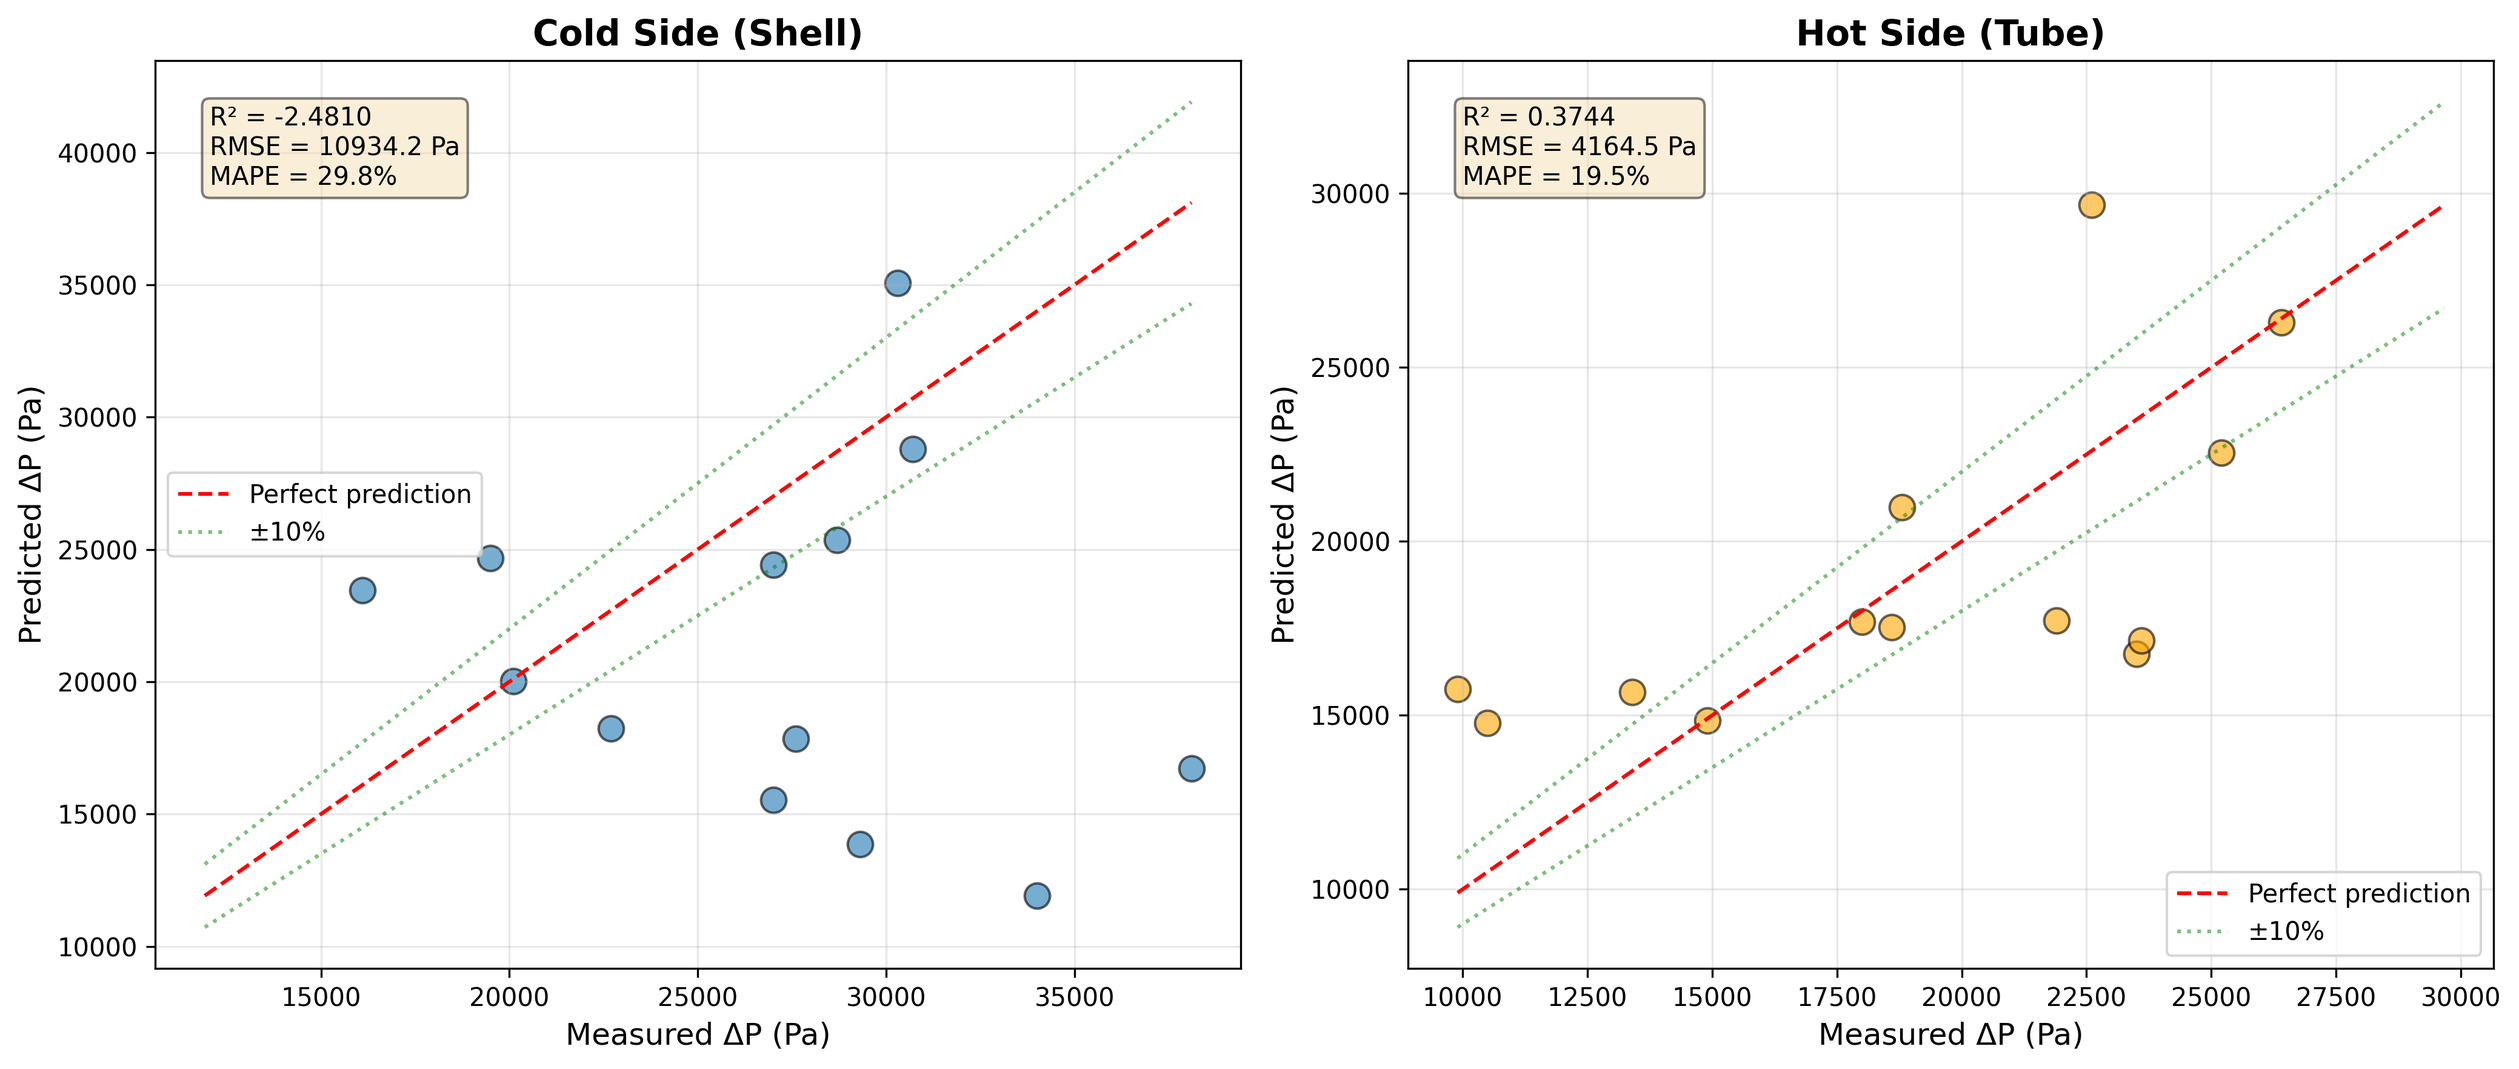
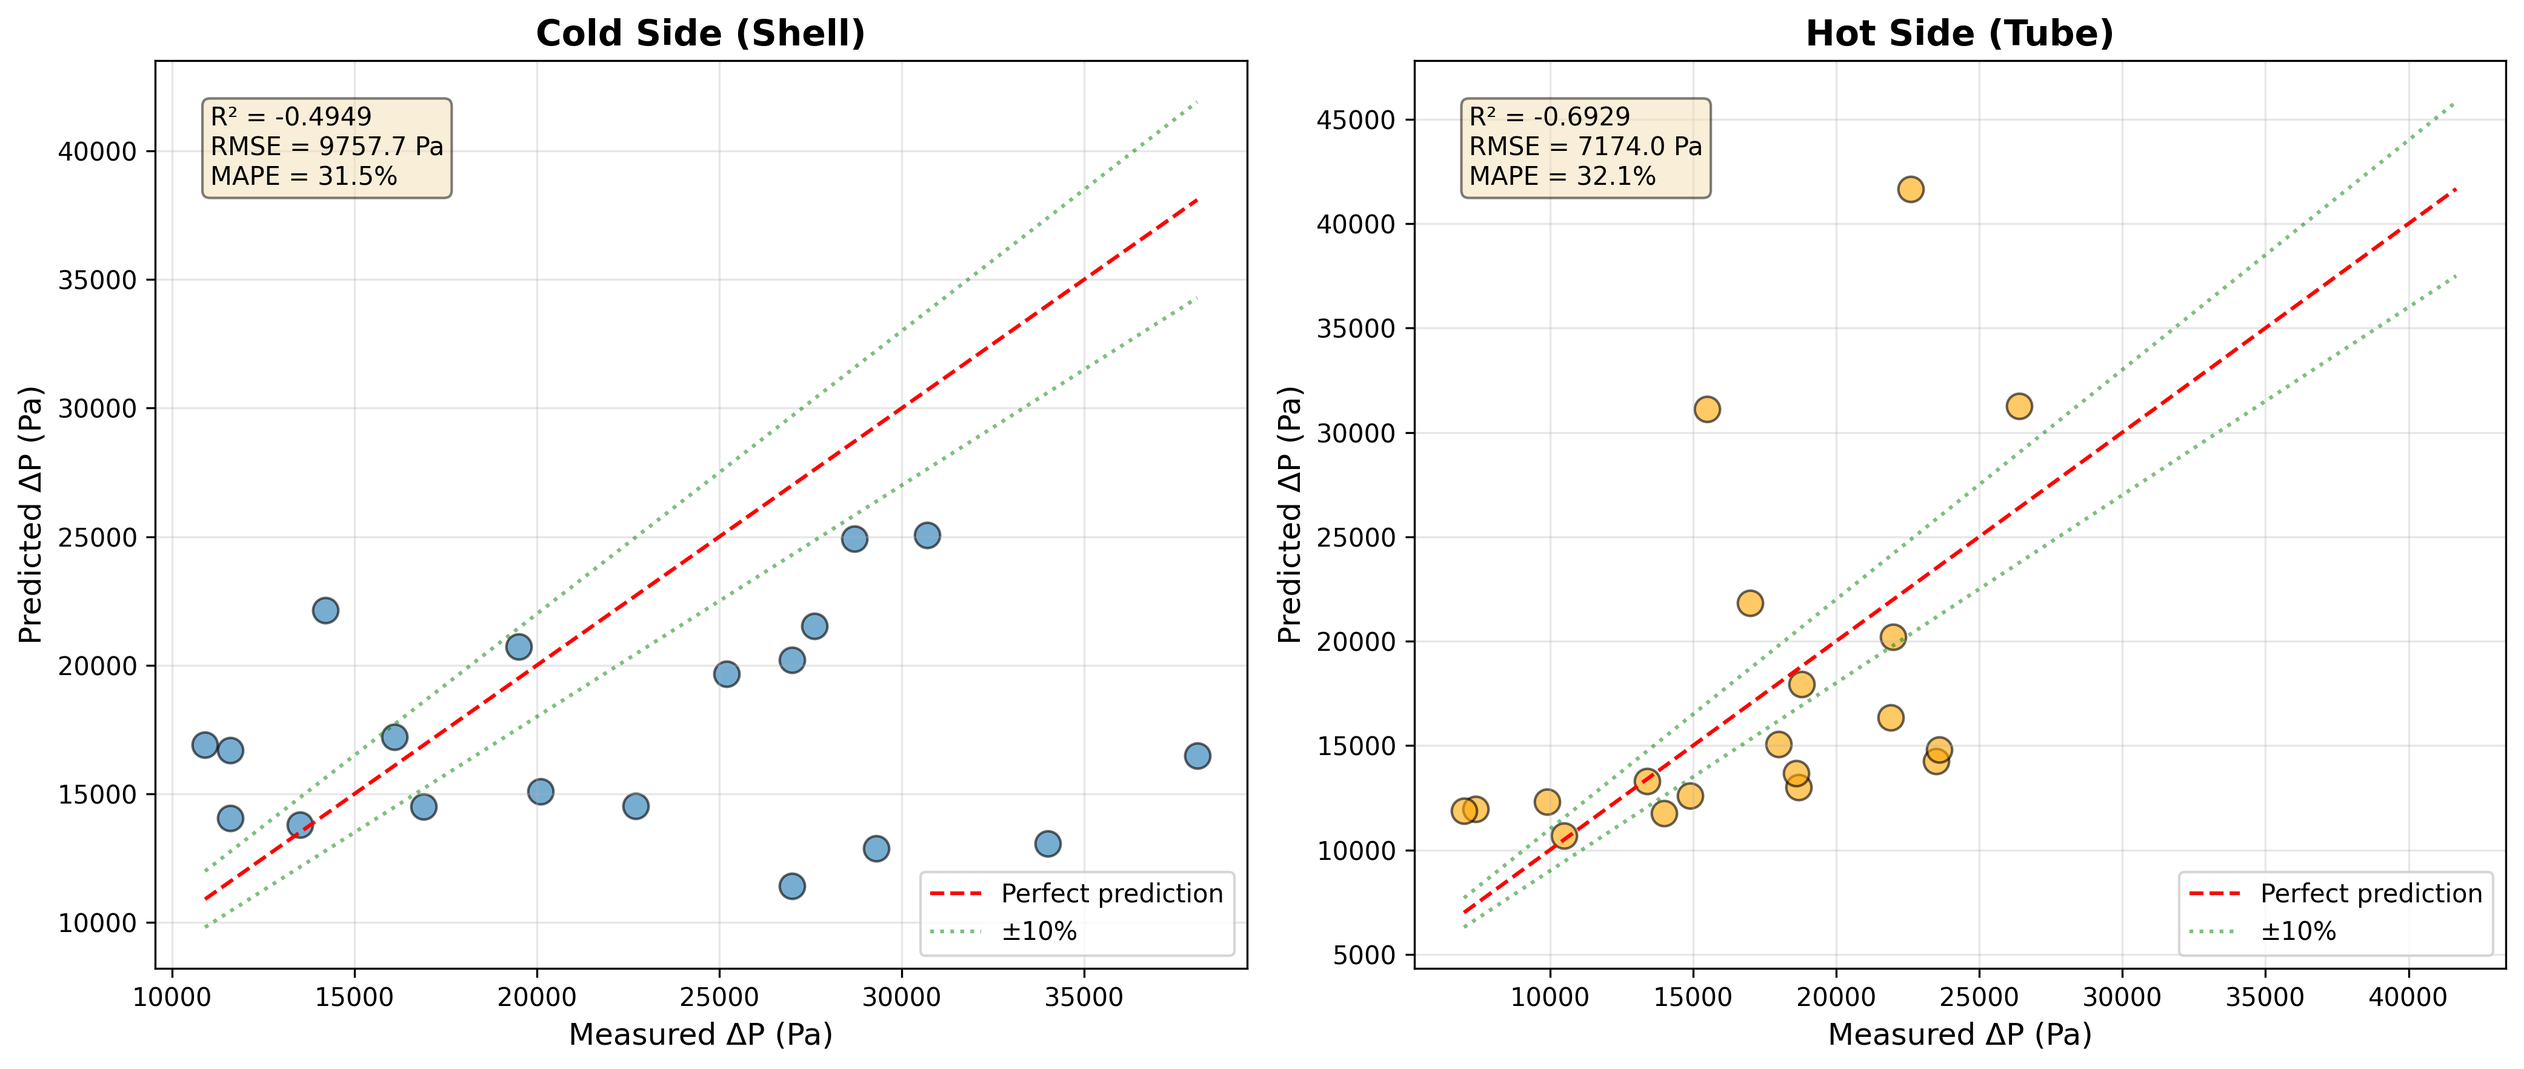
Set HX to pure physical corrections

diff --git a/optimise_hx.py b/optimise_hx.py
@@ -38,7 +38,7 @@ class HeatExchangerOptimizer:
         
         relative_roughness = hx.tube_roughness / hx.tube_inner_diameter
         friction_factor = hx.friction_factor(reynolds_hot, relative_roughness)
-        friction_factor_used = friction_factor / 10  # As in your code
+        friction_factor_used = friction_factor / hx.friction_divisor
         
         effective_length = hx.tube_length * hx.tube_passes
         pipe_friction = (friction_factor_used * (effective_length / hx.tube_inner_diameter) 
@@ -65,12 +65,16 @@ class HeatExchangerOptimizer:
         
         bundle_dp = 4 * a * N * hx.fluid_density * velocity_cold**2 * hx.shell_passes
         
+        # Turning losses at baffles
+        turning_dp = (hx.number_of_baffles * hx.K_turn * 0.5 * 
+                      hx.fluid_density * velocity_cold**2 * hx.shell_passes)
+        
         nozzle_velocity_cold = m_cold / (hx.fluid_density * hx.nozzle_area_shell_side)
         nozzle_cold = 2 * hx.nozzle_correction_factor * 0.5 * hx.fluid_density * nozzle_velocity_cold**2
         
         hose_cold = 2 * hx.hose_pressure_drop(m_cold, hx.K_hose_cold)
         
-        total_cold = bundle_dp + nozzle_cold + hose_cold
+        total_cold = bundle_dp + turning_dp + nozzle_cold + hose_cold
         
         if verbose:
             print(f"\n{'='*60}")
@@ -83,12 +87,14 @@ class HeatExchangerOptimizer:
             print(f"  Velocity:           {velocity_hot:.3f} m/s")
             print(f"  Reynolds:           {reynolds_hot:.0f}")
             print(f"  Friction factor:    {friction_factor:.6f} (using {friction_factor_used:.6f})")
+            print(f"  Friction divisor:   {hx.friction_divisor:.2f}")
             print(f"  Kc, Ke:             {Kc:.4f}, {Ke:.4f}")
+            print(f"  Entrance/exit mult: {hx.entrance_exit_multiplier:.2f}")
             print(f"\n  Pipe friction:      {pipe_friction:8.1f} Pa  ({100*pipe_friction/total_hot:5.1f}%)")
             print(f"  Entrance/exit:      {entrance_exit:8.1f} Pa  ({100*entrance_exit/total_hot:5.1f}%)")
             print(f"  Nozzles:            {nozzle_hot:8.1f} Pa  ({100*nozzle_hot/total_hot:5.1f}%)")
             print(f"  Hoses:              {hose_hot:8.1f} Pa  ({100*hose_hot/total_hot:5.1f}%)")
-            print(f"  Misc:               {misc_hot:8.1f} Pa  ({100*misc_hot/total_hot:5.1f}%)")
+            print(f"  Misc (K={hx.K_tube_misc:.2f}):      {misc_hot:8.1f} Pa  ({100*misc_hot/total_hot:5.1f}%)")
             print(f"  ---")
             print(f"  TOTAL PREDICTED:    {total_hot:8.1f} Pa")
             print(f"  MEASURED:           {dp_hot_meas:8.1f} Pa")
@@ -98,8 +104,11 @@ class HeatExchangerOptimizer:
             print(f"  Velocity:           {velocity_cold:.3f} m/s")
             print(f"  Reynolds:           {reynolds_cold:.0f}")
             print(f"  Friction coeff (a): {a:.4f}")
+            print(f"  Shell friction mult:{hx.shell_friction_a / (0.34 if hx.is_square_layout else 0.2):.2f}")
             print(f"  Crossflow corr:     {hx.crossflow_correction_factor:.2f}")
+            print(f"  K_turn:             {hx.K_turn:.2f}")
             print(f"\n  Bundle crossflow:   {bundle_dp:8.1f} Pa  ({100*bundle_dp/total_cold:5.1f}%)")
+            print(f"  Turning losses:     {turning_dp:8.1f} Pa  ({100*turning_dp/total_cold:5.1f}%)")
             print(f"  Nozzles:            {nozzle_cold:8.1f} Pa  ({100*nozzle_cold/total_cold:5.1f}%)")
             print(f"  Hoses:              {hose_cold:8.1f} Pa  ({100*hose_cold/total_cold:5.1f}%)")
             print(f"  ---")
@@ -122,6 +131,7 @@ class HeatExchangerOptimizer:
             },
             'cold': {
                 'bundle': bundle_dp,
+                'turning': turning_dp,
                 'nozzle': nozzle_cold,
                 'hose': hose_cold,
                 'total_predicted': total_cold,
@@ -154,7 +164,9 @@ class HeatExchangerOptimizer:
         # Apply parameters to all heat exchangers
         for hx in self.hxs:
             for param_name, param_value in zip(param_names, params):
-                if param_name == 'crossflow_correction_factor':
+                if param_name == 'K_tube_misc':
+                    hx.K_tube_misc = param_value
+                elif param_name == 'crossflow_correction_factor':
                     hx.crossflow_correction_factor = param_value
                 elif param_name == 'shell_friction_multiplier':
                     # Multiply the base value
@@ -162,12 +174,12 @@ class HeatExchangerOptimizer:
                     hx.shell_friction_a = base_a * param_value
                 elif param_name == 'nozzle_correction_factor':
                     hx.nozzle_correction_factor = param_value
-                elif param_name == 'friction_factor_divisor':
-                    hx._friction_factor_divisor = param_value
+                elif param_name == 'friction_divisor':
+                    hx.friction_divisor = param_value
                 elif param_name == 'entrance_exit_multiplier':
-                    hx._entrance_exit_multiplier = param_value
-                elif param_name == 'tube_misc_K':
-                    hx.K_tube_misc = param_value
+                    hx.entrance_exit_multiplier = param_value
+                elif param_name == 'K_turn':
+                    hx.K_turn = param_value
         
         # Calculate total error
         total_error = 0
@@ -175,9 +187,9 @@ class HeatExchangerOptimizer:
             m_cold, m_hot = self.mass_flows[i]
             dp_cold_meas, dp_hot_meas = self.pressure_changes[i]
             
-            # Get predictions (need to apply friction_factor_divisor manually)
+            # Get predictions
             dp_cold_pred = hx.cold_side_pressure_drop(m_cold)
-            dp_hot_pred = self._get_hot_side_dp_with_custom_friction(hx, m_hot)
+            dp_hot_pred = hx.hot_side_pressure_drop(m_hot)
             
             # Relative errors
             error_cold = ((dp_cold_pred - dp_cold_meas) / dp_cold_meas) ** 2
@@ -187,78 +199,25 @@ class HeatExchangerOptimizer:
         
         return total_error
     
-    def _get_hot_side_dp_with_custom_friction(self, hx, mass_flow_rate_hot):
-        """
-        Modified hot-side pressure drop calculation with custom friction divisor
-        """
-        velocity = hx.tube_side_velocity(mass_flow_rate_hot)
-        reynolds = hx.tube_side_reynolds_number(velocity)
-        relative_roughness = hx.tube_roughness / hx.tube_inner_diameter
-        
-        # Get base friction factor
-        friction_factor_base = hx.friction_factor(reynolds, relative_roughness)
-        
-        # Apply custom divisor if it exists
-        if hasattr(hx, '_friction_factor_divisor'):
-            friction_factor = friction_factor_base / hx._friction_factor_divisor
-        else:
-            friction_factor = friction_factor_base  # Default
-        
-        # Pipe friction
-        effective_length = hx.tube_length * hx.tube_passes
-        pipe_friction_loss = (
-            friction_factor
-            * (effective_length / hx.tube_inner_diameter)
-            * 0.5
-            * hx.fluid_density
-            * velocity**2
-        )
-        
-        # Entrance/exit losses
-        Kc, Ke = hx.get_entrance_exit_coefficients(reynolds)
-        
-        # Apply multiplier if it exists
-        if hasattr(hx, '_entrance_exit_multiplier'):
-            multiplier = hx._entrance_exit_multiplier
-        else:
-            multiplier = 1.0
-        
-        entrance_exit_loss = (
-            hx.tube_passes
-            * 0.5
-            * hx.fluid_density
-            * velocity**2
-            * (Kc + Ke)
-            * multiplier
-        )
-        
-        # Nozzle losses
-        nozzle_velocity = mass_flow_rate_hot / (hx.fluid_density * hx.nozzle_area_tube_side)
-        nozzle_loss = 2 * hx.nozzle_correction_factor * 0.5 * hx.fluid_density * nozzle_velocity**2
-        
-        # Misc losses
-        misc_loss = hx.K_tube_misc * 0.5 * hx.fluid_density * velocity**2
-        
-        # Hose losses
-        hose_loss = 2 * hx.hose_pressure_drop(mass_flow_rate_hot, hx.K_hose_hot)
-        
-        return pipe_friction_loss + entrance_exit_loss + nozzle_loss + misc_loss + hose_loss
-    
-    def optimize_parameters(self, param_config, method='differential_evolution'):
+    def optimize_parameters(self, param_config, method='differential_evolution', 
+                          weight_cold=1.0, weight_hot=1.0):
         """
         Optimize correction factors
         
         Args:
             param_config: Dict with parameter names as keys and (min, max, initial) as values
                 Example: {
-                    'crossflow_correction_factor': (0.5, 5.0, 2.0),
-                    'shell_friction_multiplier': (0.5, 2.0, 1.0),
-                    'nozzle_correction_factor': (0.5, 2.0, 1.0),
-                    'friction_factor_divisor': (1.0, 20.0, 10.0),
-                    'entrance_exit_multiplier': (0.5, 3.0, 1.0),
-                    'tube_misc_K': (0.0, 2.0, 0.0)
+                    'K_tube_misc': (0.0, 5.0, 0.0),
+                    'crossflow_correction_factor': (0.5, 5.0, 1.6),
+                    'shell_friction_multiplier': (0.5, 3.0, 1.3),
+                    'nozzle_correction_factor': (0.1, 2.0, 0.5),
+                    'friction_divisor': (0.5, 10.0, 1.0),
+                    'entrance_exit_multiplier': (0.1, 2.0, 0.5),
+                    'K_turn': (0.0, 5.0, 1.0)
                 }
             method: 'differential_evolution' (global) or 'minimize' (local)
+            weight_cold: Weight for cold-side errors
+            weight_hot: Weight for hot-side errors
         
         Returns:
             Optimization result object
@@ -268,26 +227,29 @@ class HeatExchangerOptimizer:
         x0 = [param_config[name][2] for name in param_names]
         
         print(f"\nOptimizing {len(param_names)} parameters:")
+        print(f"Weights: cold={weight_cold:.2f}, hot={weight_hot:.2f}")
         for name, (lb, ub, init) in param_config.items():
-            print(f"  {name}: [{lb:.3f}, {ub:.3f}], initial={init:.3f}")
+            print(f"  {name:30s}: [{lb:.3f}, {ub:.3f}], initial={init:.3f}")
         
         if method == 'differential_evolution':
             result = differential_evolution(
-                lambda x: self.objective_function(x, param_names),
+                lambda x: self.objective_function(x, param_names, weight_cold, weight_hot),
                 bounds=bounds,
-                maxiter=100,
+                maxiter=200,
                 popsize=15,
                 seed=42,
                 disp=True,
-                atol=1e-6,
-                tol=1e-6
+                atol=1e-8,
+                tol=1e-8,
+                workers=1
             )
         else:
             result = minimize(
-                lambda x: self.objective_function(x, param_names),
+                lambda x: self.objective_function(x, param_names, weight_cold, weight_hot),
                 x0=x0,
                 bounds=bounds,
-                method='L-BFGS-B'
+                method='L-BFGS-B',
+                options={'maxiter': 1000}
             )
         
         print(f"\n{'='*60}")
@@ -299,7 +261,7 @@ class HeatExchangerOptimizer:
             print(f"  {name:30s} = {value:.6f}")
         
         # Apply optimal parameters
-        self.objective_function(result.x, param_names)
+        self.objective_function(result.x, param_names, weight_cold, weight_hot)
         
         return result
     
@@ -319,7 +281,7 @@ class HeatExchangerOptimizer:
             dp_cold_meas, dp_hot_meas = self.pressure_changes[i]
             
             dp_cold_pred = hx.cold_side_pressure_drop(m_cold)
-            dp_hot_pred = self._get_hot_side_dp_with_custom_friction(hx, m_hot)
+            dp_hot_pred = hx.hot_side_pressure_drop(m_hot)
             
             cold_predicted.append(dp_cold_pred)
             cold_measured.append(dp_cold_meas)
@@ -390,40 +352,32 @@ class HeatExchangerOptimizer:
 # =============================================================================
 
 if __name__ == "__main__":
-    # You would import your actual data here:
-    # from previous_HXs import hxs, mass_flows, pressure_changes
     
-    # For demonstration, create dummy data
-    print("Import your heat exchanger data:")
-    print("  from previous_HXs import hxs, mass_flows, pressure_changes")
-    print("\nThen create optimizer:")
-    print("  optimizer = HeatExchangerOptimizer(hxs, mass_flows, pressure_changes)")
-    print("\nRun diagnostics:")
-    print("  optimizer.diagnose_all()")
-    print("\nOptimize parameters:")
-    print("  param_config = {")
-    print("      'crossflow_correction_factor': (0.5, 5.0, 2.0),")
-    print("      'shell_friction_multiplier': (0.5, 2.0, 1.0),")
-    print("      'nozzle_correction_factor': (0.5, 2.0, 1.0),")
-    print("      'friction_factor_divisor': (1.0, 20.0, 10.0),")
-    print("      'entrance_exit_multiplier': (0.5, 3.0, 1.0)")
-    print("  }")
-    print("  result = optimizer.optimize_parameters(param_config)")
-    print("\nPlot results:")
-    print("  optimizer.plot_comparison(save_path='hx_optimization.png')")
-
     optimizer = HeatExchangerOptimizer(hxs, mass_flows, pressure_changes)
 
+    # Diagnose before optimization
+    print("\n" + "="*60)
+    print("BEFORE OPTIMIZATION")
+    print("="*60)
     optimizer.diagnose_all()
 
+    # Configuration matching your current tuning parameters
     param_config = {
-      'crossflow_correction_factor': (0.5, 5.0, 2.0),
-      'shell_friction_multiplier': (0.5, 2.0, 1.0),
-      'nozzle_correction_factor': (0.5, 2.0, 1.0),
-      'friction_factor_divisor': (1.0, 20.0, 10.0),
-      'entrance_exit_multiplier': (0.5, 3.0, 1.0)
+        'K_tube_misc': (0.0, 5.0, 0.0),
+        'crossflow_correction_factor': (0.5, 3.0, 1.6),
+        'shell_friction_multiplier': (0.6, 2.0, 1.0),
+        'nozzle_correction_factor': (0.7, 3.0, 1.0),
+        'friction_divisor': (0.7, 3.0, 1.0),
+        'entrance_exit_multiplier': (0.7, 2.0, 1.0),
+        'K_turn': (0.0, 2.0, 1.0)
     }
 
-    result = optimizer.optimize_parameters(param_config)
+    result = optimizer.optimize_parameters(param_config, weight_cold=2.0, weight_hot=1.0)
+
+    # Diagnose after optimization
+    print("\n" + "="*60)
+    print("AFTER OPTIMIZATION")
+    print("="*60)
+    optimizer.diagnose_all()
 
     optimizer.plot_comparison(save_path='hx_optimization.png')

diff --git a/ShellAndTubeHeatExchanger.py b/ShellAndTubeHeatExchanger.py
@@ -46,14 +46,15 @@ class ShellAndTubeHeatExchanger:
         self.fluid_density = parameters.rho_w
         self.fluid_viscosity = parameters.mu
 
+        # tuning parameters
         self.K_tube_misc = 0
         self.crossflow_correction_factor = 1
-        # self.shell_friction_a = 0.34 if self.is_square_layout else 0.2  # Kern correlation multiplier (was 'a')
-        self.shell_friction_a = 1
-        self.nozzle_correction_factor = 0.5
-        self.friction_divisor = 20
-        self.entrance_exit_multiplier = 0.5
-
+        self.shell_friction_a = 0.34 if self.is_square_layout else 0.2  # Kern correlation multiplier (was 'a')
+        self.shell_friction_a *= 1
+        self.nozzle_correction_factor = 1
+        self.friction_divisor = 1
+        self.entrance_exit_multiplier = 1
+        self.K_turn = 1.5 # K ~ 2.0 for 180° turn, but reduced due to gradual turning
     # ------------------------------------------------------------
     # GEOMETRY HELPERS
     # ------------------------------------------------------------
@@ -218,8 +219,9 @@ class ShellAndTubeHeatExchanger:
 
     def shell_side_pressure_drop(self, mass_flow_rate_cold):
         """
-        Total shell-side pressure drop following handout:
+        Total shell-side pressure drop with:
         - Bundle crossflow (eq 9): ΔP = 4 * a * Re^(-0.15) * N * rho * V^2
+        - Window zone turning losses at each baffle
         - Nozzle losses: 2 dynamic heads
         - Multiplied by shell_passes for multi-pass configurations
         """
@@ -235,15 +237,24 @@ class ShellAndTubeHeatExchanger:
             4 * a * N * self.fluid_density * velocity**2
         )
         
+        # Window zone turning losses - 180° turn at each baffle
+        turning_losses_per_pass = (
+            self.number_of_baffles  # one turn per baffle
+            * self.K_turn
+            * 0.5
+            * self.fluid_density
+            * velocity**2
+        )
+        
         # Total bundle pressure drop accounting for shell passes
-        bundle_pressure_drop = bundle_pressure_drop_per_pass * self.shell_passes
-
+        bundle_pressure_drop = (bundle_pressure_drop_per_pass + turning_losses_per_pass) * self.shell_passes
+        
         # Nozzle losses: 2 dynamic heads (inlet and outlet only, not per pass)
         nozzle_velocity = mass_flow_rate_cold / (
             self.fluid_density * self.nozzle_area_shell_side
         )
         nozzle_pressure_drop = 2 * self.nozzle_correction_factor * 0.5 * self.fluid_density * nozzle_velocity**2
-
+        
         return bundle_pressure_drop + nozzle_pressure_drop
 
     # ------------------------------------------------------------

diff --git a/test_pressure_change.py b/test_pressure_change.py
@@ -35,8 +35,10 @@ for i, hx in enumerate(hxs):
     num_baffles.append(hx.number_of_baffles)
 
     # Store errors
-    hot_errors.append(rel_error_hot)
-    cold_errors.append(rel_error_cold)
+    # hot_errors.append(rel_error_hot)
+    # cold_errors.append(rel_error_cold)
+    cold_errors.append(dp_cold_pred-dp_cold_measured)
+    hot_errors.append(dp_hot_pred-dp_hot_measured)
 
 # -----------------------------
 # Plot 1: Hot error vs tube length
@@ -54,7 +56,6 @@ plt.xlabel("Tube Length (m)")
 plt.ylabel("Hot Side Error (%)")
 plt.title("Hot Side Error vs Tube Length")
 plt.grid(True)
-plt.show()
 
 # # -----------------------------
 # # Plot 2: Hot error vs number of tubes
